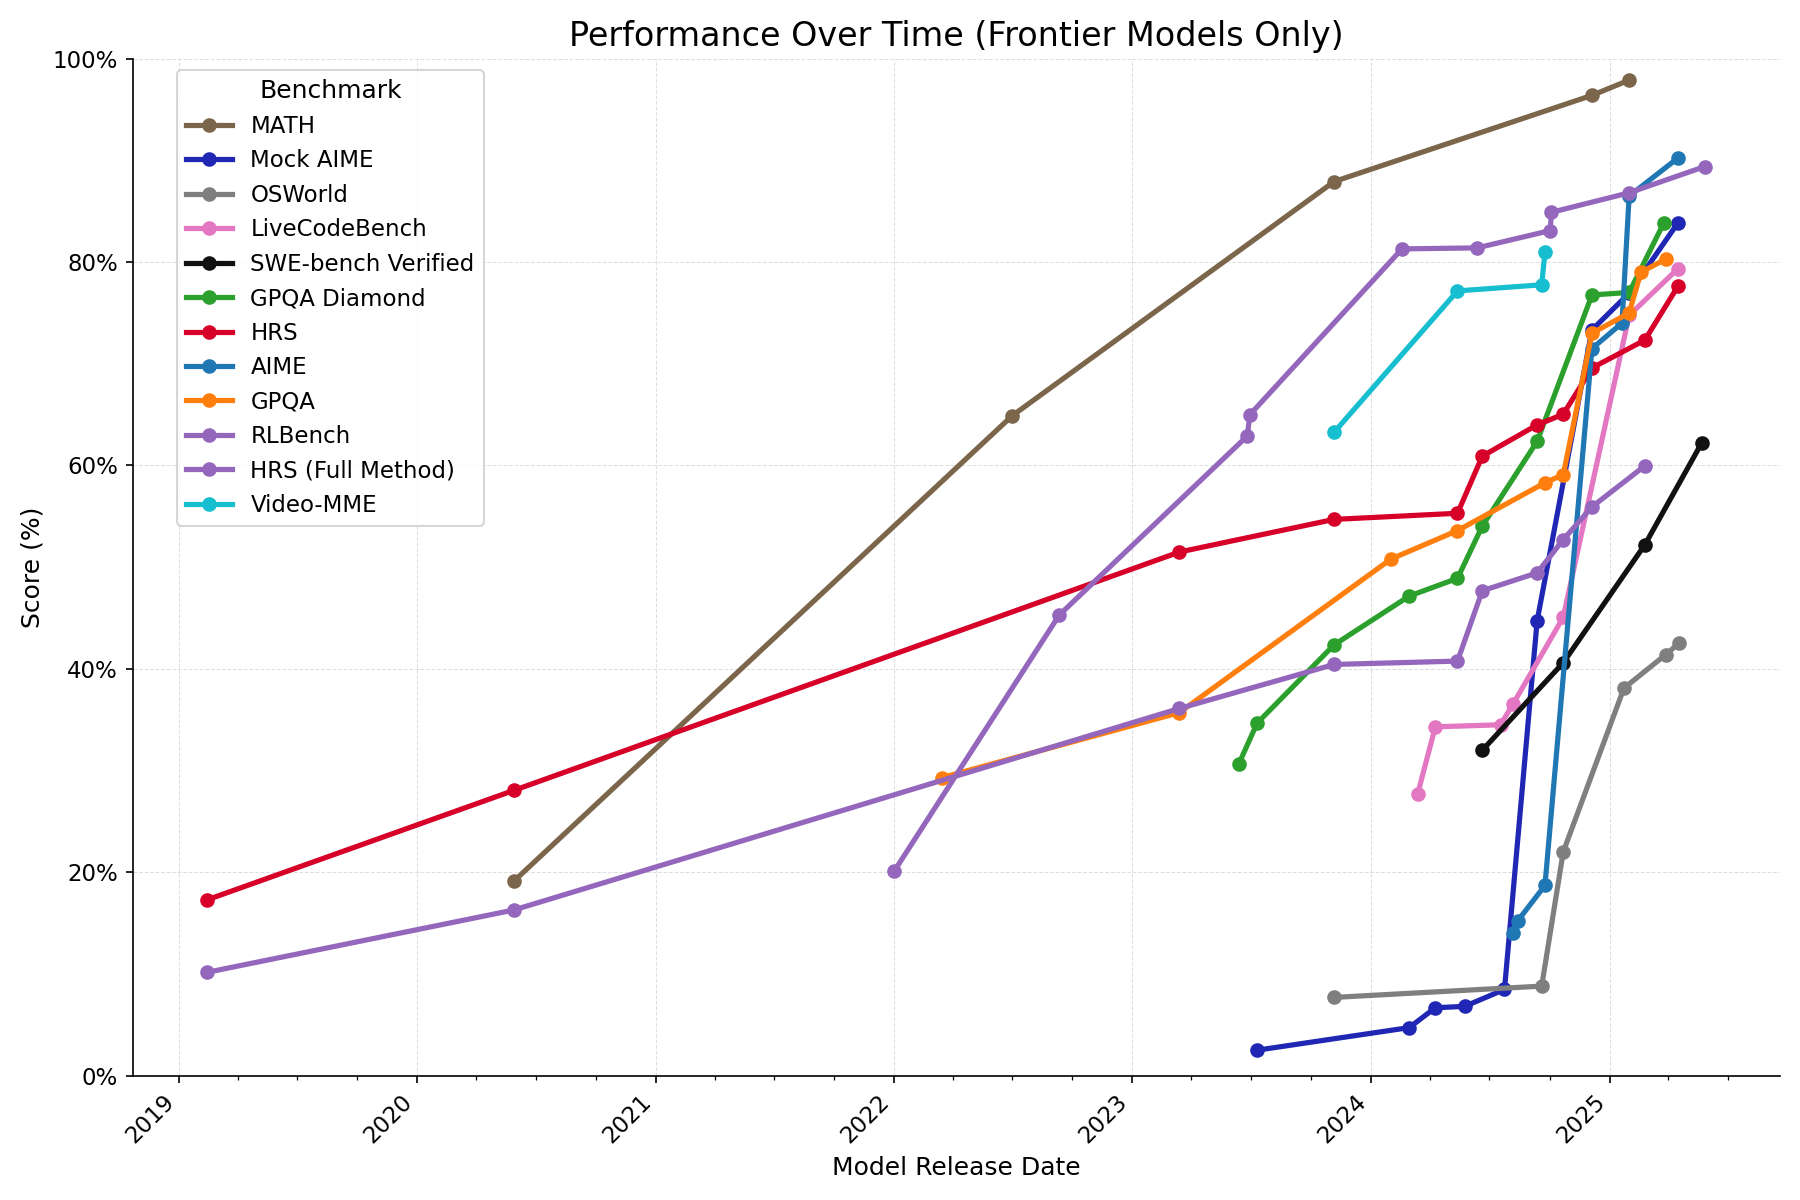
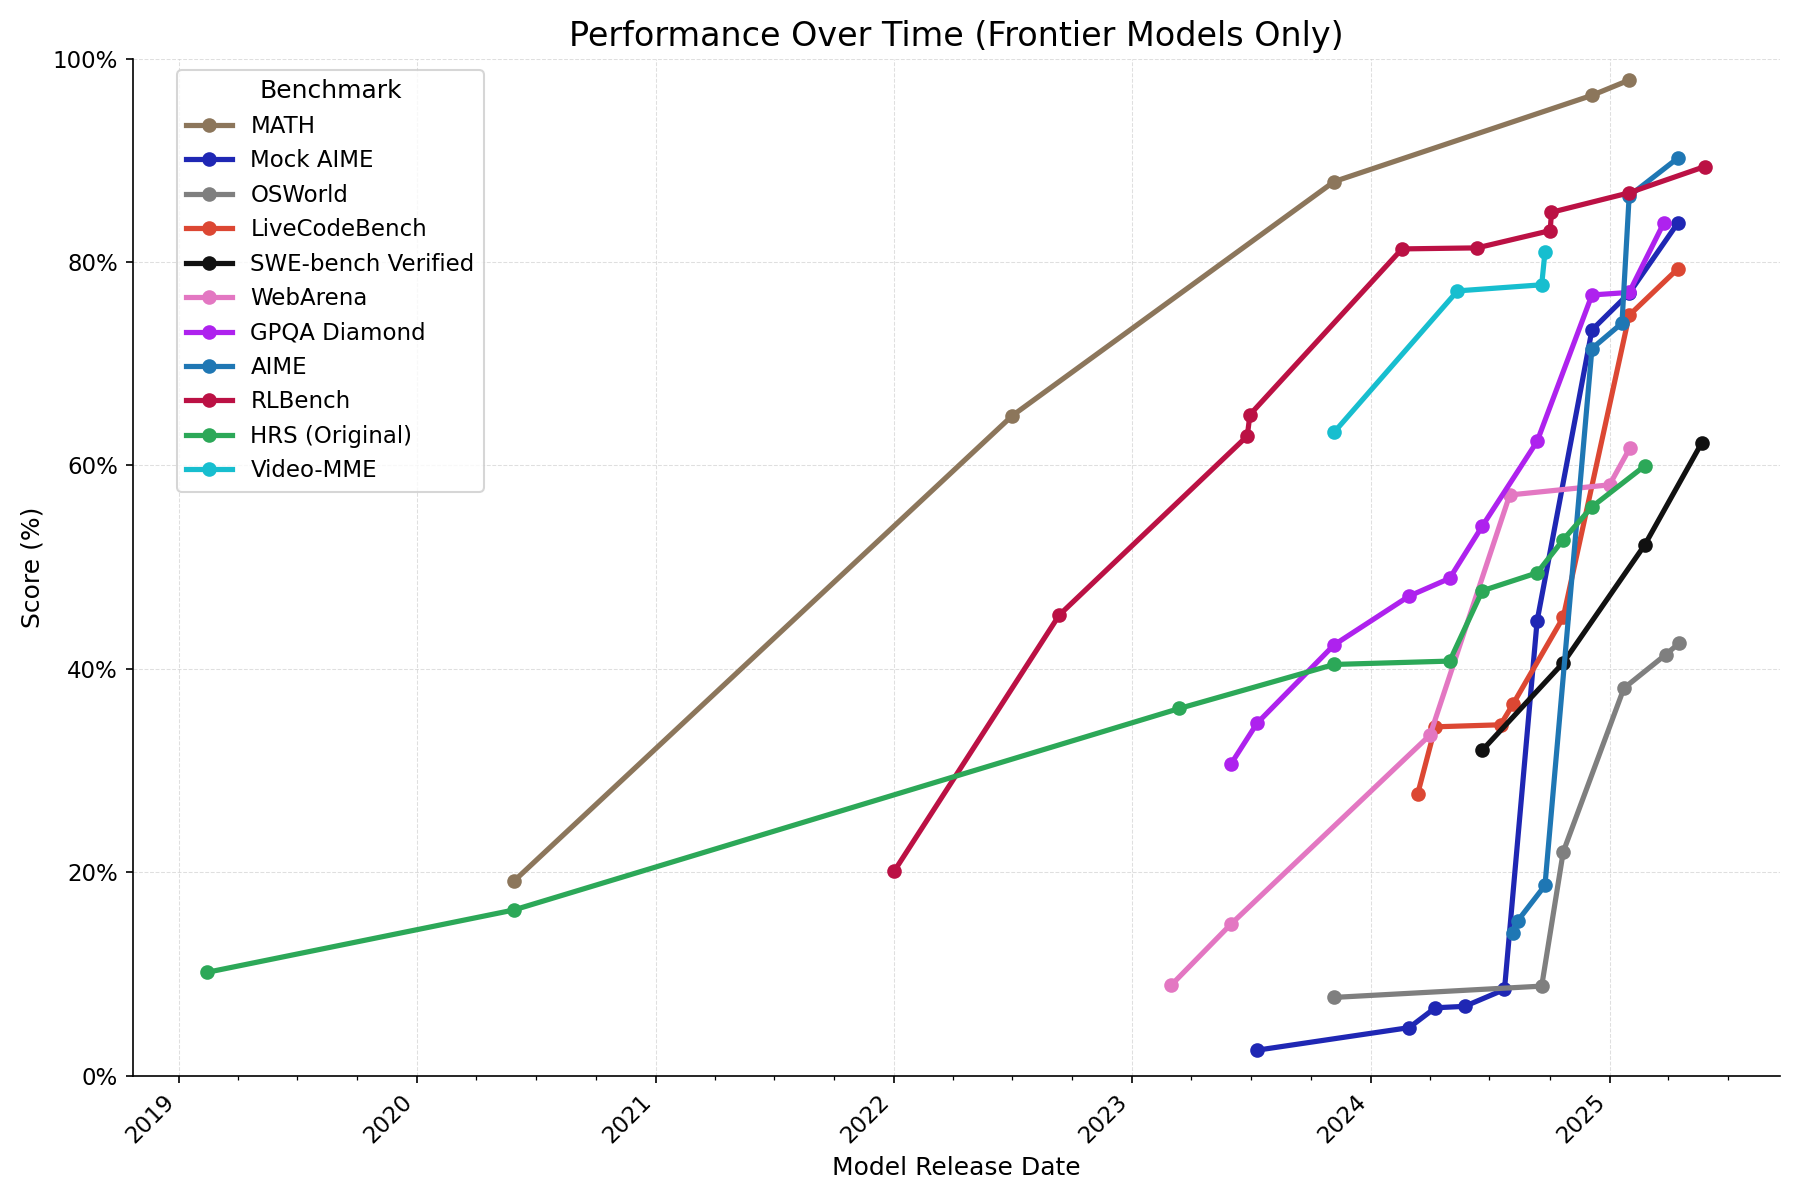
edits to plot percent and plot splits

diff --git a/plots.py b/plots.py
@@ -761,7 +761,7 @@ def plot_beta_swarmplot(df: pd.DataFrame, output_file: pathlib.Path):
     print(f"Beta swarmplot saved to {output_file}")
 
 
-def plot_percent_over_time(df, output_file):
+def plot_percent_over_time(df, output_file, benchmarks_to_skip=None):
     """Generates and saves a plot of score (percentage) over time for frontier models only."""
     
     assert not df.empty, "No data loaded for percent over time plot."
@@ -776,6 +776,9 @@ def plot_percent_over_time(df, output_file):
     # Identify frontier models for each benchmark (models with highest score at each time point)
     plot_df['is_frontier'] = False
     benchmarks = plot_df['benchmark'].unique()
+
+    if benchmarks_to_skip is not None:
+        benchmarks = [bench for bench in benchmarks if bench not in benchmarks_to_skip]
     
     for bench in benchmarks:
         bench_df = plot_df[plot_df['benchmark'] == bench].sort_values(by=['release_date_num', 'score'], ascending=[True, False])
@@ -1081,7 +1084,7 @@ def main():
         plot_speculation(all_df, SPECULATION_OUTPUT_FILE)
 
     if "percent" in plots_to_make:
-        plot_percent_over_time(all_df.copy(), PERCENT_OVER_TIME_OUTPUT_FILE)
+        plot_percent_over_time(all_df.copy(), PERCENT_OVER_TIME_OUTPUT_FILE, benchmarks_to_skip=["hcast_r_s", "gpqa", "livecodebench_2411_2505_approx"])
 
     if "robustness" in plots_to_make:
         plot_robustness_subplots(all_df.copy(),

diff --git a/plot_splits.py b/plot_splits.py
@@ -229,7 +229,7 @@ def plot_splits(df: pd.DataFrame, output_path: pathlib.Path):
     
     for bucket_name, geom_mean_length, score in hcast_buckets:
         data_points.append({
-            'benchmark': 'hcast_r_s',
+            'benchmark': 'hcast_r_s_full_method',
             'model': 'GPT-4o',
             'split': bucket_name,
             'score': score * 100,  # Convert to percentage
